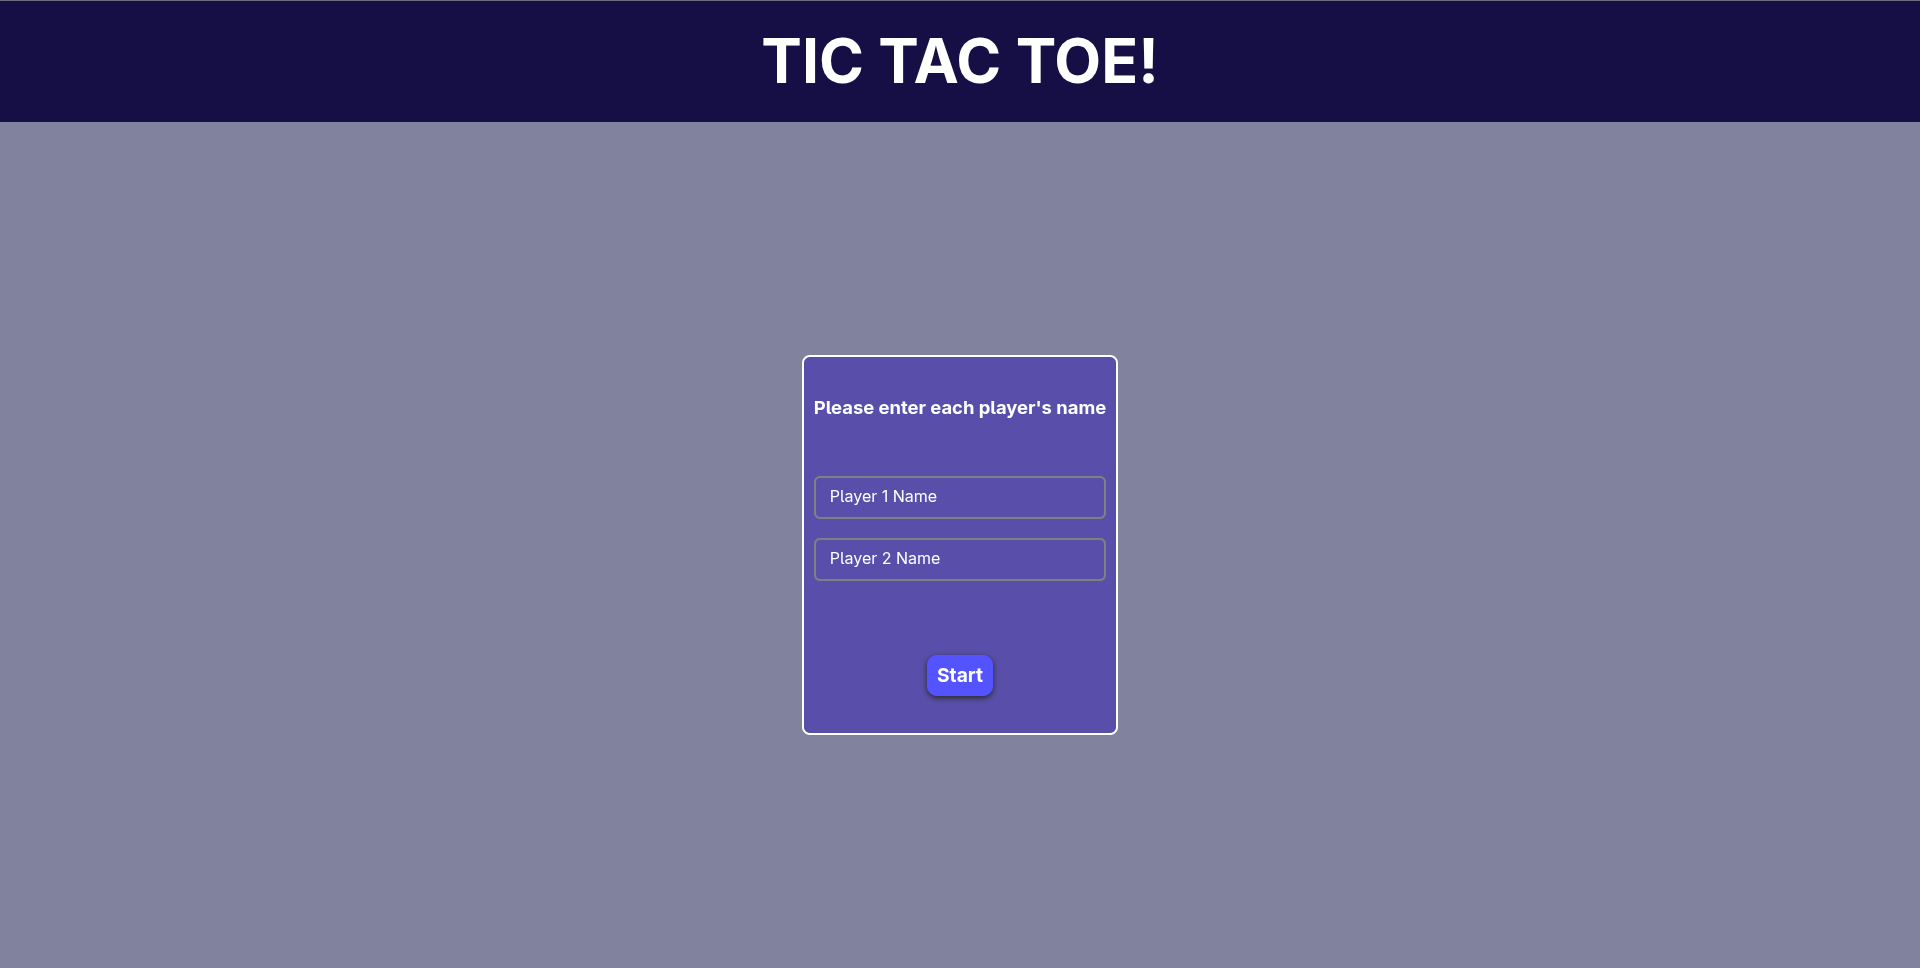
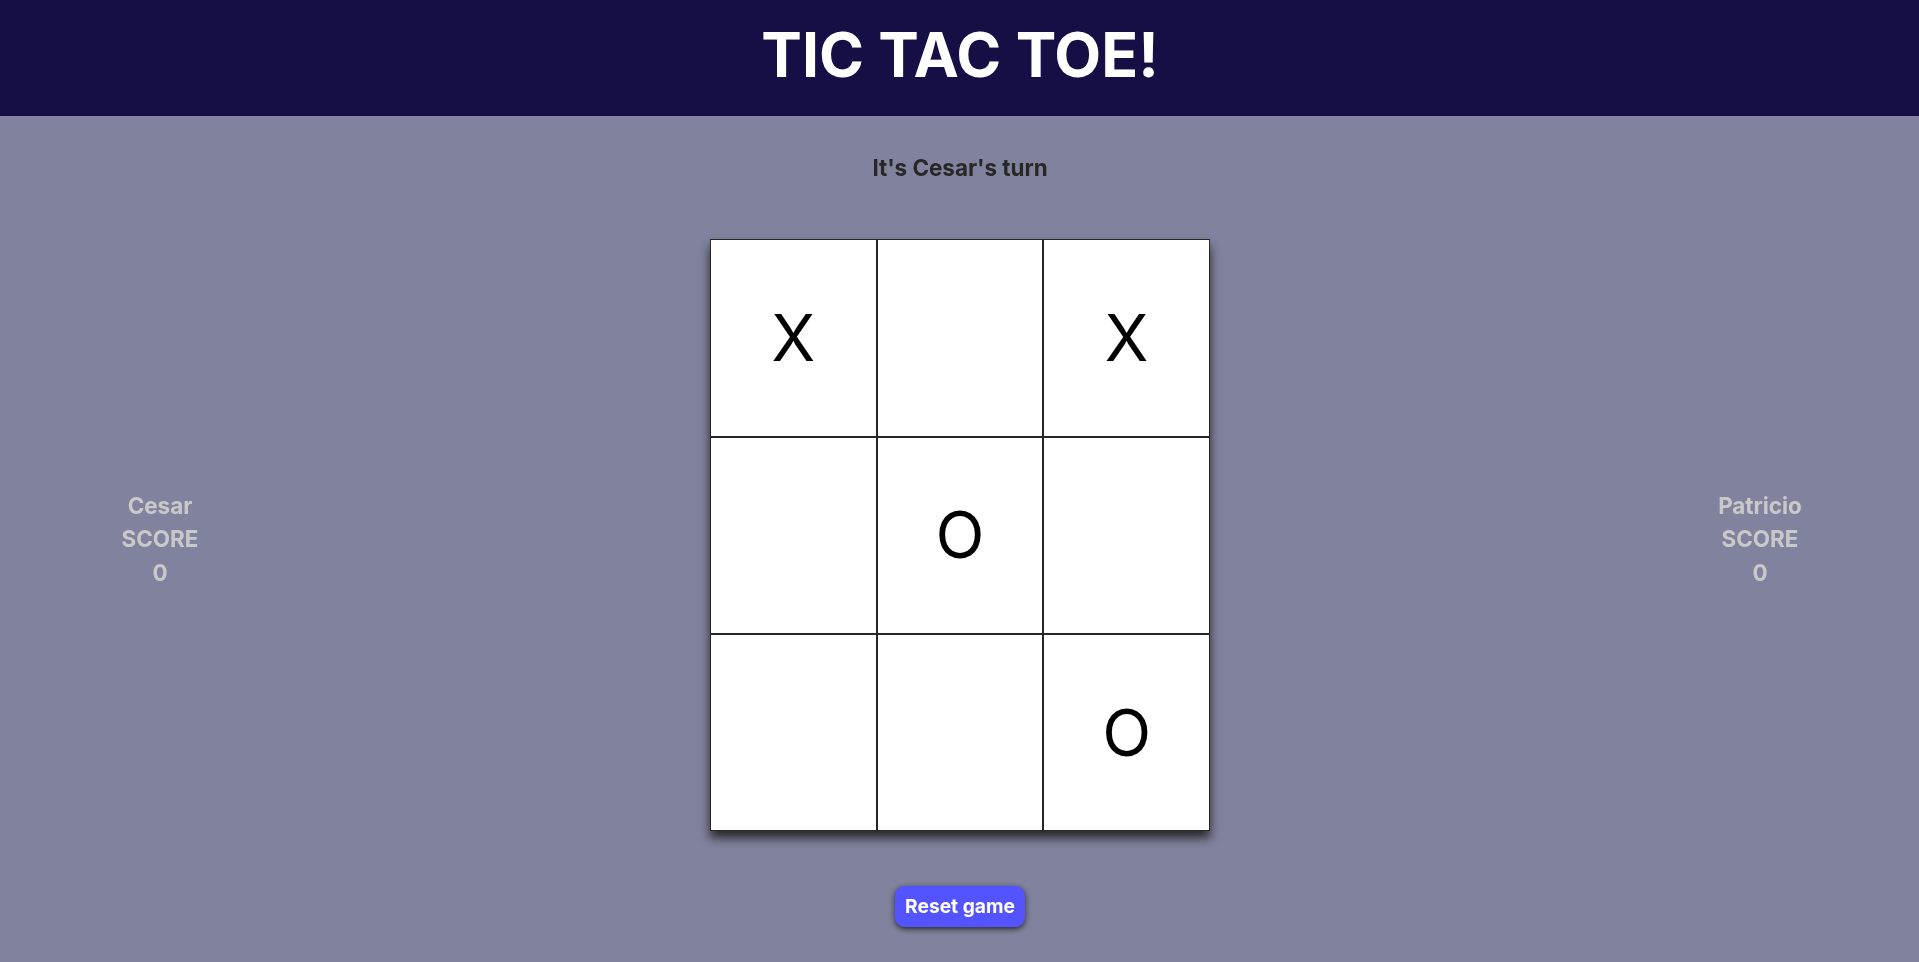
add(projects): first projects

diff --git a/src/components/Projects/Projects.tsx b/src/components/Projects/Projects.tsx
@@ -1,5 +1,6 @@
 import { useState } from "react";
 import "./Projects.css";
+import { Project } from "../Project/Project";
 
 export default function Projects() {
   const [activeCategory, setActiveCategory] = useState<string>("All");
@@ -23,58 +24,20 @@ export default function Projects() {
       <div className="projects-container">
         <div className="background">
           <ul className="grid-container">
-            <li className="project">
-              <div className="img-container">
-                <img
-                  src="/projects/web/tic-tac-toe.png"
-                  alt="Image of Tic Tac Toe project"
-                />
-              </div>
-              <div className="description">
-                <h2>Project title</h2>
-                <p>Description</p>
-                <p>Tools</p>
-              </div>
-            </li>
-            <li className="project">
-              <div className="img-container">
-                <img
-                  src="/projects/web/tic-tac-toe.png"
-                  alt="Image of Tic Tac Toe project"
-                />
-              </div>
-              <div className="description">
-                <h2>Project title</h2>
-                <p>Description</p>
-                <p>Tools</p>
-              </div>
-            </li>
-            <li className="project">
-              <div className="img-container">
-                <img
-                  src="/projects/web/tic-tac-toe.png"
-                  alt="Image of Tic Tac Toe project"
-                />
-              </div>
-              <div className="description">
-                <h2>Project title</h2>
-                <p>Description</p>
-                <p>Tools</p>
-              </div>
-            </li>
-            <li className="project">
-              <div className="img-container">
-                <img
-                  src="/projects/web/tic-tac-toe.png"
-                  alt="Image of Tic Tac Toe project"
-                />
-              </div>
-              <div className="description">
-                <h2>Tic Tac Toe</h2>
-                <p>Description</p>
-                <p>Tools</p>
-              </div>
-            </li>
+            <Project
+              imgUrl="/projects/web/to-do-app.png"
+              imgAlt="To do web app project image"
+              title="To Do App"
+              description="To do App with local storage for data persistance."
+              tools={[]}
+            />
+            <Project
+              imgUrl="/projects/web/weather-api.png"
+              imgAlt="Weather API project image"
+              title="Weather API"
+              description="Weather API to fetch weather conditions with both Celsius and Farenheit conversion."
+              tools={[]}
+            />
           </ul>
         </div>
       </div>

diff --git a/src/components/Projects/Projects.css b/src/components/Projects/Projects.css
@@ -28,12 +28,28 @@
 
 .project-selection-container span {
   position: relative;
+  transition: transform 0.2s ease;
 }
 
-.project-selection-container li.active span::after {
+li span::after {
+  content: "";
+  background-color: hotpink;
+  height: 5px;
+  width: calc(100% + 10px);
+  border-radius: 10px;
+  bottom: -8px;
+  right: -5px;
+  position: absolute;
+
+  transform: scaleX(0);
+  transition: transform 0.2s ease;
 }
 
-.project-selection-container li:hover {
+li.active span::after {
+  transform: scaleX(1);
+}
+
+li {
   cursor: pointer;
 }
 
@@ -61,6 +77,7 @@
   overflow: auto;
   grid-auto-rows: 100%;
   border-radius: 10px;
+  gap: 10px;
 
   position: relative;
 }
@@ -97,6 +114,12 @@
   left: 0;
 
   object-fit: cover;
+  transform-origin: center;
+  transition: transform 0.4s ease;
+}
+
+.img-container img:hover {
+  transform: scale(1.04);
 }
 
 .project > .description {

diff --git a/src/components/Project/Project.tsx b/src/components/Project/Project.tsx
@@ -1,0 +1,28 @@
+interface Props {
+  imgUrl: string;
+  imgAlt: string;
+  title: string;
+  description: string;
+  tools: [];
+}
+
+export const Project = ({
+  imgUrl,
+  imgAlt,
+  title,
+  description,
+  tools,
+}: Props) => {
+  return (
+    <li className="project">
+      <div className="img-container">
+        <img src={imgUrl} alt={imgAlt} />
+      </div>
+      <div className="description">
+        <h2>{title}</h2>
+        <p>{description}</p>
+        <p>{tools}</p>
+      </div>
+    </li>
+  );
+};
